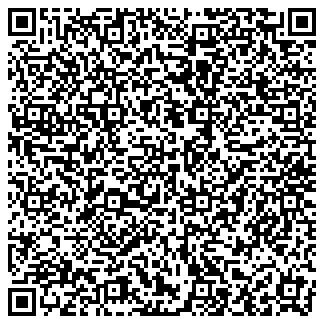
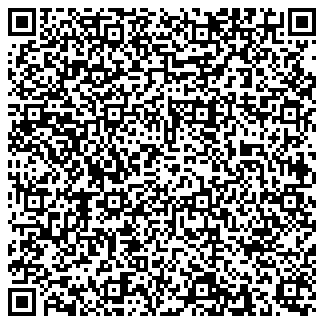
b4ckup

Changed region(s): [[0.0, 0.0, 0.9877, 0.9877], [0.8642, 0.9259, 0.8951, 0.9877], [0.3395, 0.9259, 0.3704, 0.9877]]

diff --git a/PF1/MainForn.cs b/PF1/MainForn.cs
@@ -25,7 +25,7 @@ namespace PF1
         {
             logStream = File.Open( Path.Combine( Directory.GetParent( Directory.GetCurrentDirectory() ).Parent.FullName, @"Logs\\text.txt" ), FileMode.Create );
             streamWriter = new StreamWriter( logStream );
-            streamWriter.Write( "PRUEBA" );
+            streamWriter.Write( "Cambio" );
             streamWriter.Close();
 
             MessageBox.Show( Path.Combine( Directory.GetParent( Directory.GetCurrentDirectory() ).Parent.FullName, @"Logs" ));
